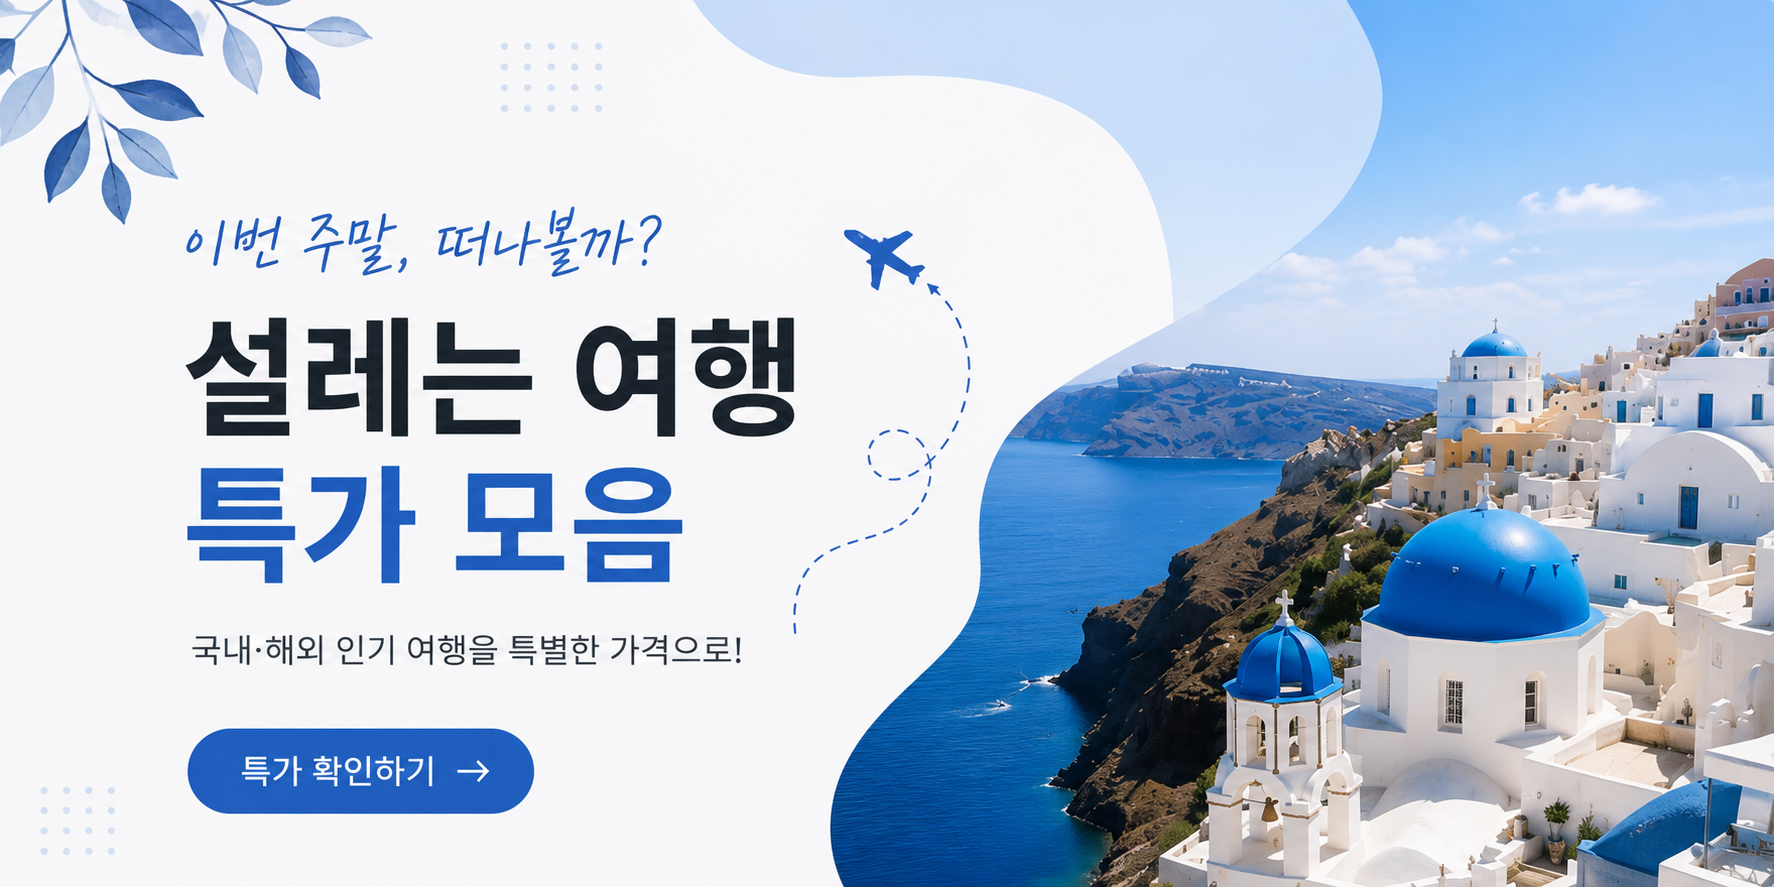
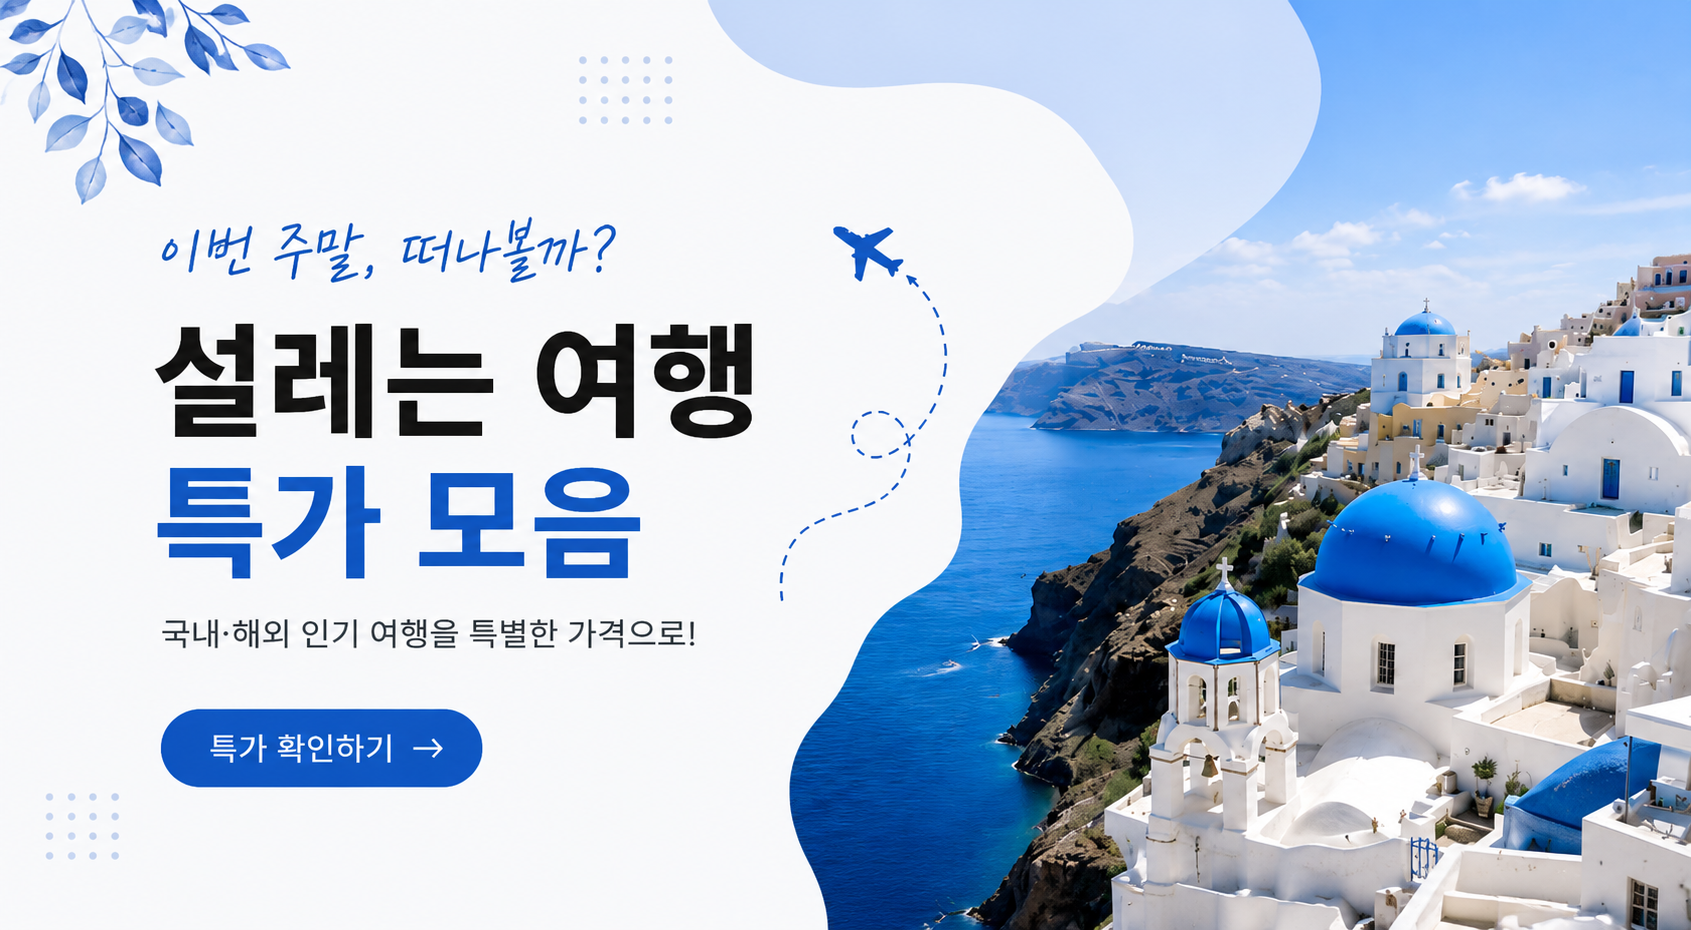
feat: 메인 배너 Swiper 적용

diff --git a/src/pages/Main/components/MainBanner.jsx b/src/pages/Main/components/MainBanner.jsx
@@ -1,14 +1,14 @@
 import { Link } from 'react-router-dom'
 import { Swiper, SwiperSlide } from 'swiper/react'
-import { Navigation } from 'swiper/modules'
+import { Navigation, Pagination } from 'swiper/modules'
 
 import banner01 from '../../../assets/images/main/main_banner01.png'
 import banner02 from '../../../assets/images/main/main_banner02.png'
 import banner03 from '../../../assets/images/main/main_banner03.png'
-import banner04 from '../../../assets/images/main/main_banner04.png'
 
 import 'swiper/css'
 import 'swiper/css/navigation'
+import 'swiper/css/pagination'
 import './MainBanner.scss'
 
 const mainBanners = [
@@ -23,11 +23,7 @@ const mainBanners = [
   {
     image: banner03,
     alt: '힐링이 필요한 순간, 바다로 떠나요 푸른 바다와 함께하는 완벽한 휴식'
-  },
-  {
-    image: banner04,
-    alt: '야경이 아름다운 도시 BEST! 낮보다 빛나는 도시의 밤을 만나보세요'
-  },
+  }
 ]
 
 const MainBanner = () => {
@@ -37,14 +33,26 @@ const MainBanner = () => {
       
       <div className="banner">
         <Swiper
-          modules={[Navigation]}
+          modules={[Navigation, Pagination]}
           navigation={{
             prevEl: '.btnPrev',
             nextEl: '.btnNext'
           }}
-          slidesPerView={2}
-          spaceBetween={28}
+          pagination={{
+            clickable: true
+          }}
+          slidesPerView={1}
+          spaceBetween={20}
           loop
+          breakpoints={{
+            590: {
+              slidesPerView: 'auto'
+            },
+            1025: {
+              slidesPerView: 2,
+              spaceBetween: 28
+            }
+          }}
         >
           { mainBanners.map(({ image, alt }, index) => (
             <SwiperSlide key={index}>

diff --git a/src/pages/Main/components/MainBanner.scss b/src/pages/Main/components/MainBanner.scss
@@ -3,21 +3,72 @@
 
 $imgPath: '../../../assets/images/main';
 
+// Mobile
 .mainBanner {
+  padding: 2rem 0;
+  border-top: .8rem solid #f0f4f4;
 
+  .swiper {
+    padding: 0 2rem;
+  }
+
+  .swiper-slide {
+    overflow: hidden;
+    border-radius: 1.2rem;
+  }
+
+  .swiper-pagination {
+    @include flexCenter;
+  }
+
+  .swiper-pagination-bullet {
+    width: .6rem;
+    height: .6rem;
+    background-color: $white;
+    border: .1rem solid #e5e5e5;
+    opacity: .6;
+
+    &-active {
+      width: .8rem;
+      height: .8rem;
+      opacity: 1;
+    }
+  }
+
+  .btnPrev,
+  .btnNext {
+    display: none;
+  }
+}
+
+// Tablet
+@media (min-width: $minTablet) {
+  .mainBanner {
+    .swiper-slide {
+      width: 33.5rem;
+    }
+
+    .swiper-pagination {
+      display: none;
+    }
+  }
 }
 
 // PC
 @media (min-width: $minDesktop) {
   .mainBanner {
     padding: 4rem 0 5rem;
+    border-top: 0;
+
+    .swiper {
+      padding: 0;
+    }
 
     .banner {
       position: relative;
     }
 
     .swiper-slide {
-      overflow: hidden;
       border-radius: 1.6rem;
     }
 
@@ -30,9 +81,9 @@ $imgPath: '../../../assets/images/main';
       z-index: 1;
       width: 4.8rem;
       height: 4.8rem;
-      background: rgba(255, 255, 255, .9);
-      border: .1rem solid rgba(0, 0, 0, .1);
-      box-shadow: 0 0 .8rem rgba(0, 0, 0, .13);
+      background: rgba($white, .9);
+      border: .1rem solid rgba($black, .1);
+      box-shadow: 0 0 .8rem rgba($black, .13);
       border-radius: 50%;
       font-size: 0;
       transform: translateY(-50%);
@@ -55,4 +106,3 @@ $imgPath: '../../../assets/images/main';
     }
   }
 }
-

diff --git a/src/pages/Main/Main.scss b/src/pages/Main/Main.scss
@@ -3,10 +3,8 @@
 
 $imgPath: '../../assets/images/main';
 
+// Mobile & Tablet
 .travelMain {
-  padding: 2rem 0;
-  border-top: .8rem solid #f0f4f4;
-
   section {
     border-bottom: .8rem solid #f0f4f4;
   }
@@ -17,5 +15,9 @@ $imgPath: '../../assets/images/main';
   .travelMain {
     max-width: $maxWidth;
     margin: 0 auto;
+
+    section {
+      border: 0;
+    }
   }
 }

diff --git a/src/styles/abstracts/variables.scss b/src/styles/abstracts/variables.scss
@@ -25,3 +25,4 @@ $maxWidth: 128rem;
 $minWidth: 32rem;
 
 $minDesktop: 1025px;
+$minTablet: 590px;
